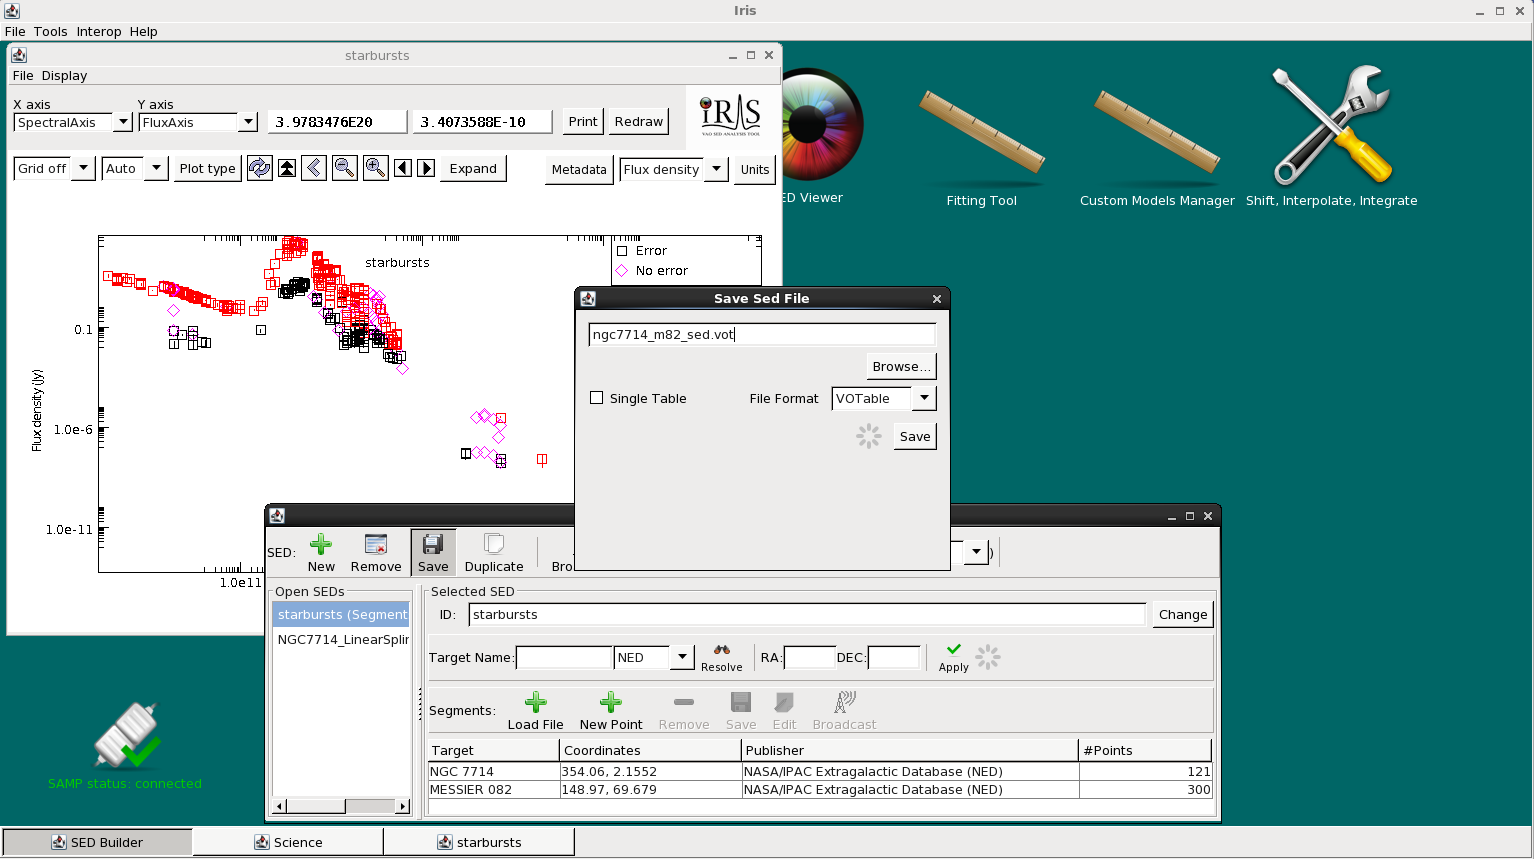
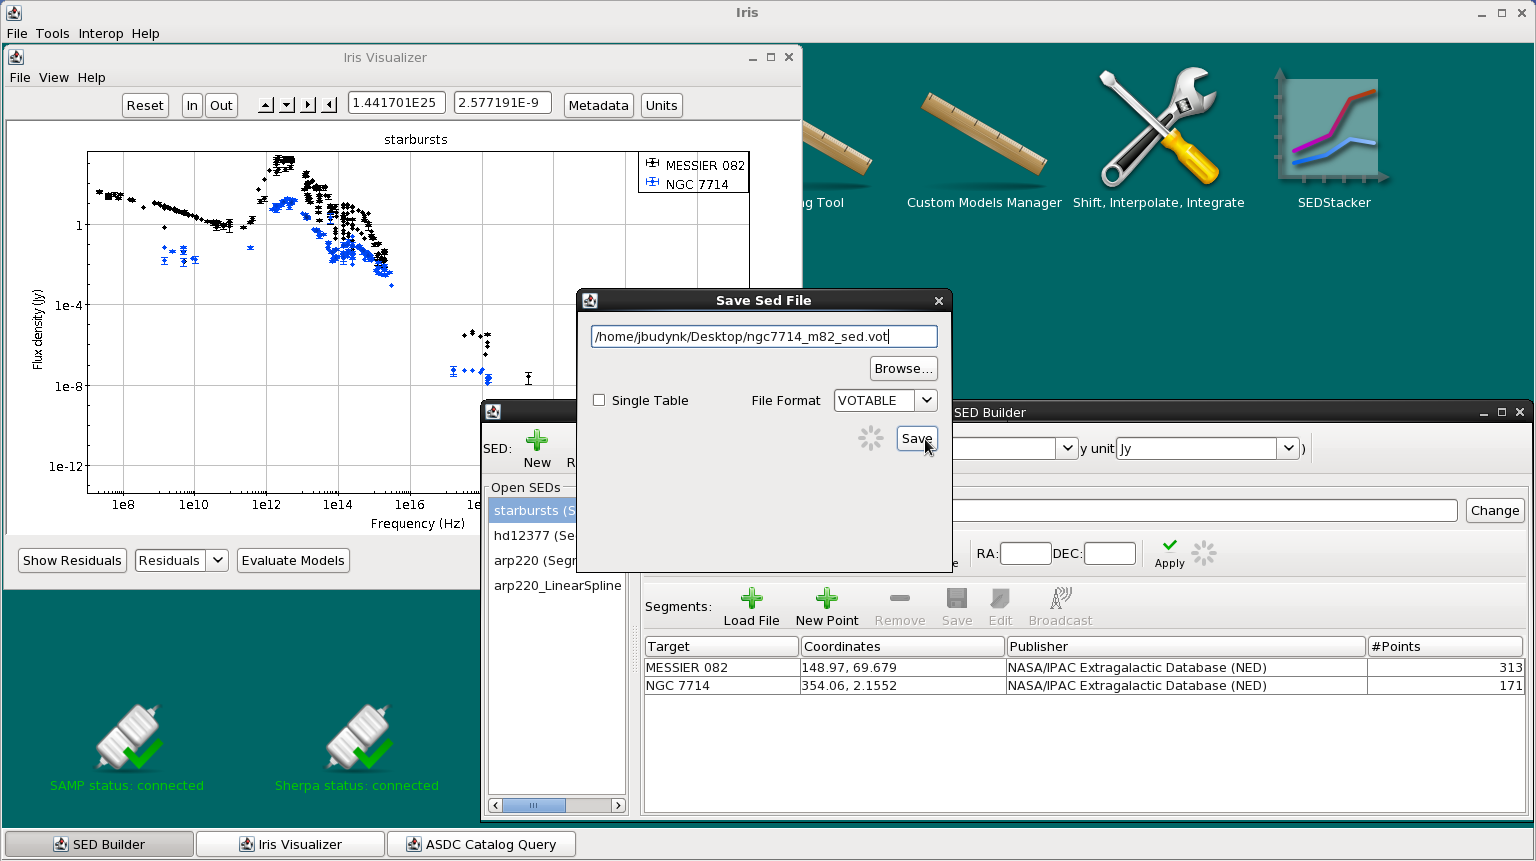
Update save thread text and images for 3.0

diff --git a/markdown/threads/save/index.md b/markdown/threads/save/index.md
@@ -13,8 +13,7 @@ file. This also explains how data can be exported to other programs.
 Saved SED data and fitting session files may be read back into the
 application at a later time to restore the analysis session.
 
-**Last Update:** 07 May 2015 - updated for Iris 2.1 beta. SEDs can now
-be saved in ASCII format.
+**Last Update:** 06 Feb 2017 - updated for Iris 3.0.
 
 ------------------------------------------------------------------------
 
@@ -62,7 +61,7 @@ save all open SED segments together, or the "Save" option in the
 a small window where you can enter a filename and file format, VOT,
 FITS, or ASCII.
 
-[![Save SED frame](./imgs/save_sed_new_small.jpg)](./imgs/save_sed_new.png)
+[![Save SED frame](./imgs/save_sed_new_small.png)](./imgs/save_sed_new.png)
 
 By default, saving SEDs in VOT or FITS format will store all associated
 metadata along with the data values of the selected SED or segments.
@@ -190,12 +189,12 @@ Component 1: brokenpowerlaw
 
 The SED data currently displayed in Iris may be printed to a hardcopy
 image in either JPG (.jpg), PNG (.png), GIF (.gif) or BITMAP (.bmp)
-format, by selecting *File-&gt;Save plot to image file*, and making the
+format, by selecting *File-&gt;Export Plot to File*, and making the
 desired image format selection. The image will scale to the size and
 shape of the plot in the Iris Visualizer. Below is an example image
-saved in JPG format.
+saved in PNG format.
 
-![Iris screenshot](./imgs/NGC7714.jpg)
+![Iris screenshot](./imgs/starbursts.png)
 
 |   |
 |--:|
@@ -214,8 +213,24 @@ the option to save any or all of the calculated fluxes in ASCII format
 by highlighting the ones you wish to save; clicking "Save" without
 highlighting any of the Results will save all fluxes. You can convert
 the calculated fluxes and effective wavelengths/passbands into whichever
-units you want by using the X and Y drop-menus. Below is an example of
-the ASCII file displaying the output file:
+units you want by using the X and Y drop-menus. 
+
+For example, use the NED SED service to import data for ARP 220, then [compute 
+an interpolated SED](../science/index.html#interpolation) of ARP 220 using the default interpolation options:
+
+  * Linear Spline
+  * 1000 bins
+  * Logarithmic binning
+  * from -infinity to infinity
+
+Switch to the Calculate Flux tab. [Add][science_integrate] a Passband from 8000 to 1e7 Angstroms, 
+then add all the Photometry Filters for 2MASS and WISE. Click "Save" at the 
+bottom of the Science window.
+
+![Save fluxes](./imgs/save_arp220_fluxes.png)
+
+Below is the [output ASCII file](./arp220_fluxes.txt) displaying the fluxes for the linear-spline 
+interpolated SED of ARP 220 imported from NED:
 
 ``` {.highlight}
 % more arp220_fluxes.txt
@@ -265,14 +280,14 @@ and other SAMP-enabled Virtual Observatory programs.
 
 Iris exports data to outside applications via the "Broadcast" button.
 Iris can broadcast data from the SED Builder, which allows us to send
-the metadata for SED segments and aggregate SEDs, and from the Metadata
-Browser, from which we can select specific data points to send. The SED
+the metadata for SED segments and aggregate SEDs <!--, and from the Metadata
+Browser, from which we can select specific data points to send-->. The SED
 Builder window has two "Broadcast" buttons: one at the very top of the
 window, which allows for the highlighted SED in the *Open SEDs* box to
 be exported, and one in the *Segments* section, which allows one or
-multiple SED segments to be broadcasted; its icon is a radio tower. The
+multiple SED segments to be broadcasted; its icon is a radio tower. <!--The
 Metadata Browser "Broadcast" button is in the bottom right-hand corner
-of the window.
+of the window.-->
 
 With the external application open and connected to the SAMP network,
 highlighted SED segments or data points may be broadcasted from Iris to
@@ -283,11 +298,11 @@ section, and exported the data to TOPCAT by clicking on the highlighted
 TOPCAT by clicking *Views -&gt; Table Data*.
 
 [![Iris SAMP
-icon](./imgs/samp_example_small.jpg)](./imgs/samp_example.png)
+icon](./imgs/samp_example_small.png)](./imgs/samp_example.png)
 
-See ["Transmitting Data from a SAMP-enabled
+<!--See ["Transmitting Data from a SAMP-enabled
 Application"][plot_broadcast] for an example of exporting
-SED data from the Metadata Browser in Iris to TOPCAT.
+SED data from the Metadata Browser in Iris to TOPCAT.-->
 
 |   |
 |--:|
@@ -308,6 +323,7 @@ SED data from the Metadata Browser in Iris to TOPCAT.
 |  02 Dec 2013 |  updated for Iris 2.0.1	  |
 |  21 Apr 2014 |  fixed typo. Single Tables store only 3 columns: the spectral, flux and flux error data. |
 |  07 May 2015 |  updated for Iris 2.1 beta. SEDs can now be saved in ASCII format. |
+|  06 Feb 2017 |  updated for Iris 3.0        |
 
 ------------------------------------
  
